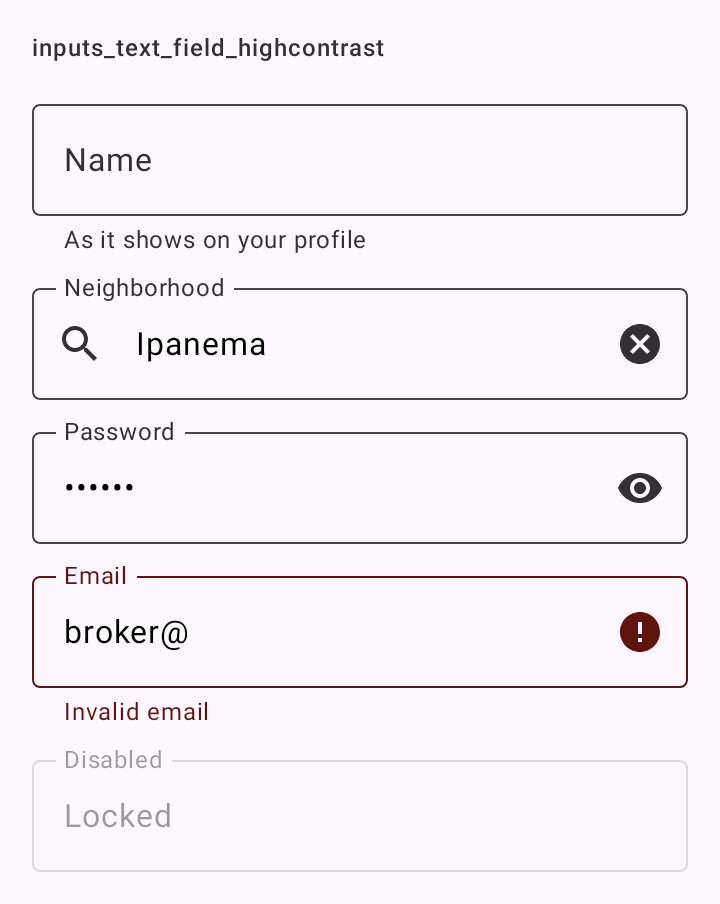
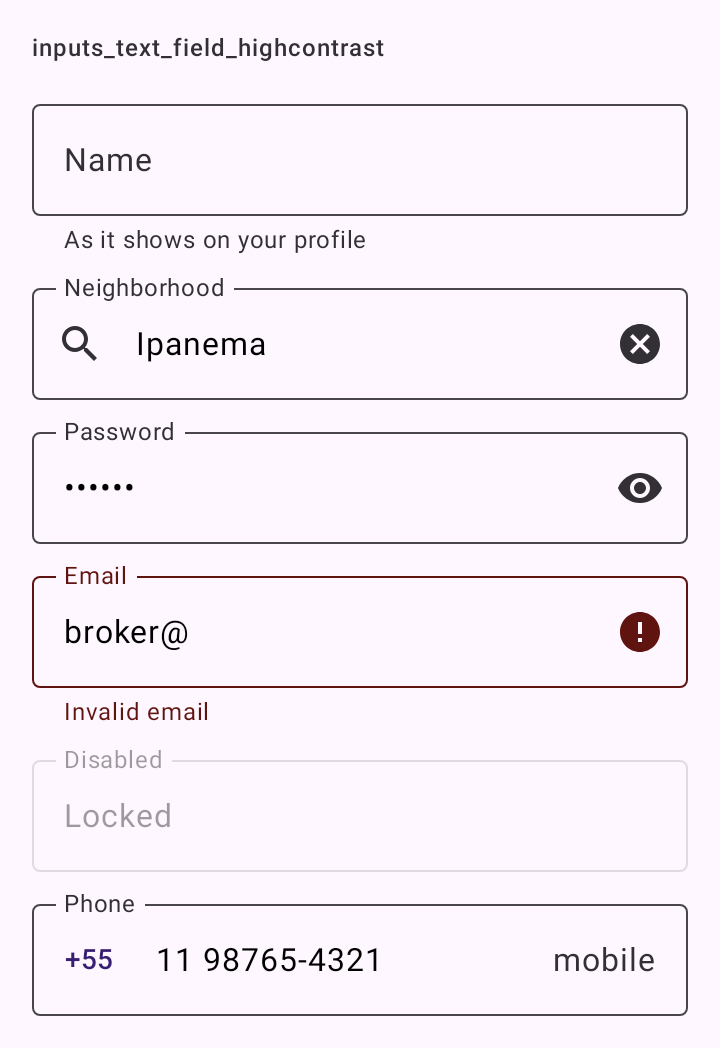
Release 0.1.4: DSTextField com leadingContent e trailingContent
Seletor no início ou no fim do campo, para valores em partes (DDI + número,
UF + registro + tipo) lidos como uma coisa só.

diff --git a/components/src/main/kotlin/io/github/romulomga/dskit/inputs/DSTextField.kt b/components/src/main/kotlin/io/github/romulomga/dskit/inputs/DSTextField.kt
@@ -35,6 +35,10 @@ import io.github.romulomga.dskit.components.R
  * @param supportingText linha de apoio ("Mínimo 6 caracteres").
  * @param errorText mensagem de erro; não nula, o campo fica em estado de erro.
  * @param leadingIcon ícone decorativo à esquerda (busca, e-mail).
+ * @param leadingContent conteúdo próprio no início, no lugar de [leadingIcon]: um seletor que faz parte do valor,
+ * como o DDI de um telefone ou a UF de um registro. Garanta alvo de 48 dp e descrição para o TalkBack.
+ * @param trailingContent conteúdo próprio no fim (um sufixo que se escolhe, uma unidade). Fica atrás do olho da
+ * senha e na frente do botão de limpar e do ícone de erro.
  * @param password esconde o texto e mostra o olho para alternar. Força o teclado de senha (sem sugestão nem
  * aprendizado, mesmo com [keyboardOptions] próprio) e avisa o autofill que o campo é senha.
  * @param clearable mostra o botão de limpar enquanto há texto.
@@ -65,7 +69,9 @@ public fun DSTextField(
     keyboardOptions: KeyboardOptions = KeyboardOptions.Default,
     keyboardActions: KeyboardActions = KeyboardActions.Default,
     contentType: ContentType? = null,
-    visualTransformation: VisualTransformation = VisualTransformation.None
+    visualTransformation: VisualTransformation = VisualTransformation.None,
+    leadingContent: (@Composable () -> Unit)? = null,
+    trailingContent: (@Composable () -> Unit)? = null
 ) {
     var revealed by rememberSaveable { mutableStateOf(false) }
     val isError = errorText != null
@@ -82,7 +88,7 @@ public fun DSTextField(
         readOnly = readOnly,
         label = { Text(label) },
         placeholder = placeholder?.let { { Text(it) } },
-        leadingIcon = leadingIcon?.let { { Icon(it, contentDescription = null) } },
+        leadingIcon = leadingContent ?: leadingIcon?.let { { Icon(it, contentDescription = null) } },
         trailingIcon = when {
             password -> {
                 {
@@ -92,6 +98,8 @@ public fun DSTextField(
                     }
                 }
             }
+
+            trailingContent != null -> trailingContent
 
             clearable && value.isNotEmpty() && enabled && !readOnly -> {
                 {
@@ -133,6 +141,13 @@ private fun DSTextFieldPreview() {
             DSTextField(value = "broker@", onValueChange = {}, label = "Email", errorText = "Invalid email")
 
             DSTextField(value = "Ipanema", onValueChange = {}, label = "Search", leadingIcon = DSIcons.Search, clearable = true)
+
+            DSTextField(
+                value = "11 98765-4321",
+                onValueChange = {},
+                label = "Phone",
+                leadingContent = { DSTextButton("+55", onClick = {}) }
+            )
         }
     }
 }

diff --git a/components/src/test/kotlin/io/github/romulomga/dskit/InputsScreenshotTest.kt b/components/src/test/kotlin/io/github/romulomga/dskit/InputsScreenshotTest.kt
@@ -3,6 +3,9 @@ package io.github.romulomga.dskit
 import androidx.compose.foundation.layout.Arrangement
 import androidx.compose.foundation.layout.Column
 import androidx.compose.foundation.layout.Row
+import androidx.compose.foundation.layout.padding
+import androidx.compose.material3.Text
+import androidx.compose.ui.Modifier
 import org.junit.Test
 
 class InputsScreenshotTest : ScreenshotTestBase() {
@@ -18,6 +21,14 @@ class InputsScreenshotTest : ScreenshotTestBase() {
             DSTextField(value = "broker@", onValueChange = {}, label = "Email", errorText = "Invalid email")
 
             DSTextField(value = "Locked", onValueChange = {}, label = "Disabled", enabled = false)
+
+            DSTextField(
+                value = "11 98765-4321",
+                onValueChange = {},
+                label = "Phone",
+                leadingContent = { DSTextButton("+55", onClick = {}) },
+                trailingContent = { Text("mobile", modifier = Modifier.padding(end = DSSpacing.lg)) }
+            )
         }
     }
 

diff --git a/docs/components/DSTextField.md b/docs/components/DSTextField.md
@@ -54,6 +54,8 @@ DSTextField(
 | `keyboardOptions` | `KeyboardOptions` | `KeyboardOptions.Default` | Tipo de teclado e ação do IME. |
 | `keyboardActions` | `KeyboardActions` | `KeyboardActions.Default` | O que fazer na ação do IME. |
 | `contentType` | `ContentType?` | `null` | O que o campo guarda, para o autofill (`EmailAddress`, `NewPassword`…). |
+| `leadingContent` | `(@Composable () -> Unit)?` | `null` | Conteúdo próprio no início, no lugar de `leadingIcon`: um seletor que faz parte do valor (DDI, UF de um registro). |
+| `trailingContent` | `(@Composable () -> Unit)?` | `null` | Conteúdo próprio no fim (sufixo que se escolhe, unidade). Fica atrás do olho da senha e na frente do limpar e do ícone de erro. |
 | `visualTransformation` | `VisualTransformation` | `VisualTransformation.None` | Como o texto aparece sem mudar o `value`: a máscara de telefone ou documento enquanto se digita. O estado guarda só os dígitos e o cursor fica no lugar. Ignorado com a senha escondida. |
 
 ## Máscara ao digitar
@@ -73,6 +75,12 @@ DSTextField(
 
 Reformatar o `value` a cada tecla (`onValueChange = { value = mask(it) }`) também mostra a máscara, mas o cursor
 volta para o fim quando a pessoa corrige um dígito no meio.
+
+## Valor em partes
+
+Quando o valor tem partes que se escolhem (DDI + número, UF + número de registro + tipo), mostre tudo num campo só,
+com o seletor em `leadingContent`/`trailingContent`, em vez de campos soltos lado a lado: a pessoa lê como uma coisa
+só. Cada seletor precisa de alvo de 48 dp e de uma descrição que diga o que ele escolhe ("UF do CRECI: SP").
 
 ## Acessibilidade
 

diff --git a/README.md b/README.md
@@ -18,7 +18,7 @@ pacotes no meio.
 
 ```sh
 git submodule add https://github.com/Romulomga/DSKit-Android.git DSKit-Android
-git -C DSKit-Android checkout 0.1.3
+git -C DSKit-Android checkout 0.1.4
 ```
 
 ```kotlin
@@ -27,9 +27,9 @@ includeBuild("DSKit-Android")
 
 // build.gradle.kts do módulo do app
 dependencies {
-    implementation("com.github.Romulomga.DSKit-Android:components:0.1.3") // traz o tokens
-    implementation("com.github.Romulomga.DSKit-Android:seed:0.1.3") // opcional: marca a partir de uma cor
-    lintChecks("com.github.Romulomga.DSKit-Android:lint:0.1.3") // as regras DSComponent, DSSpacingLiteral…
+    implementation("com.github.Romulomga.DSKit-Android:components:0.1.4") // traz o tokens
+    implementation("com.github.Romulomga.DSKit-Android:seed:0.1.4") // opcional: marca a partir de uma cor
+    lintChecks("com.github.Romulomga.DSKit-Android:lint:0.1.4") // as regras DSComponent, DSSpacingLiteral…
 }
 ```
 

diff --git a/CHANGELOG.md b/CHANGELOG.md
@@ -6,6 +6,13 @@ quebra vem descrita aqui com o código de migração.
 
 ## [Não lançado]
 
+## [0.1.4] - 2026-10-31
+
+### Adicionado
+
+- `DSTextField(leadingContent, trailingContent)`: seletor no início ou no fim do campo, para valores em partes
+  (DDI + número, UF + registro + tipo) lidos como uma coisa só.
+
 ## [0.1.3] - 2026-10-31
 
 ### Adicionado
